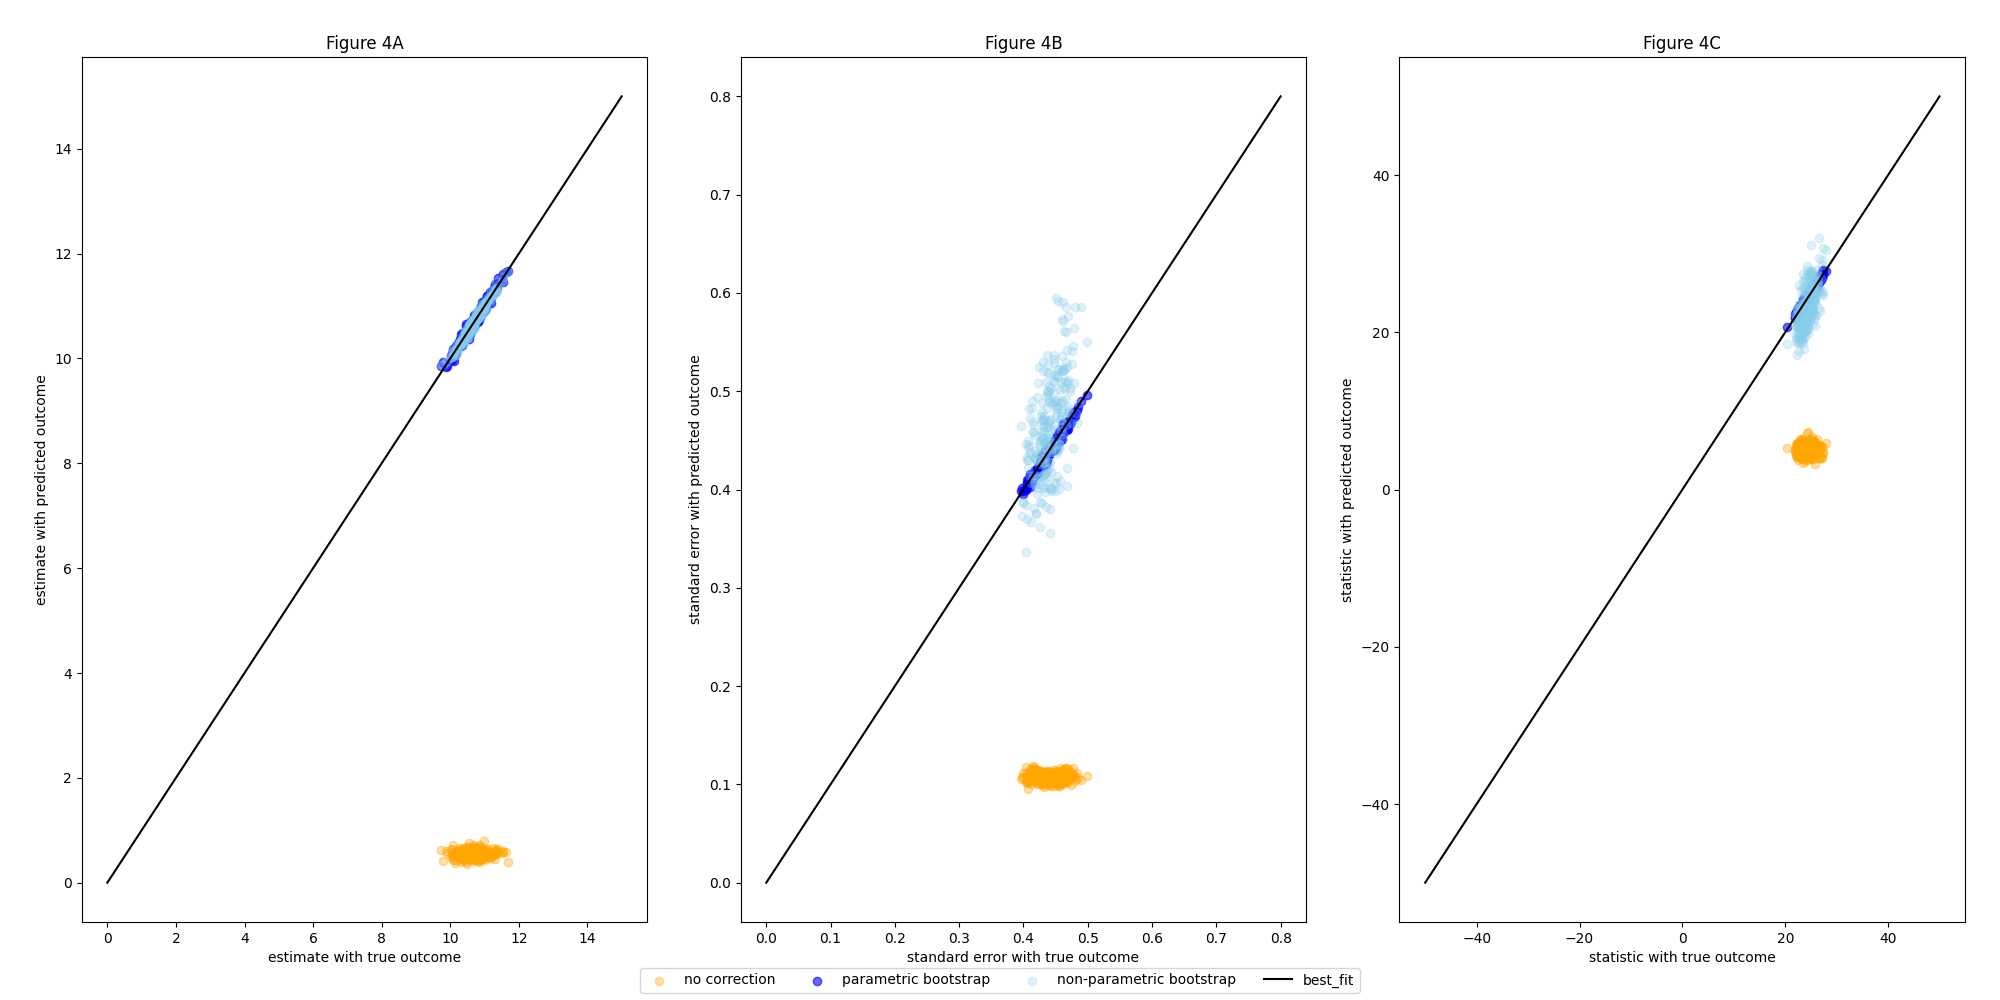
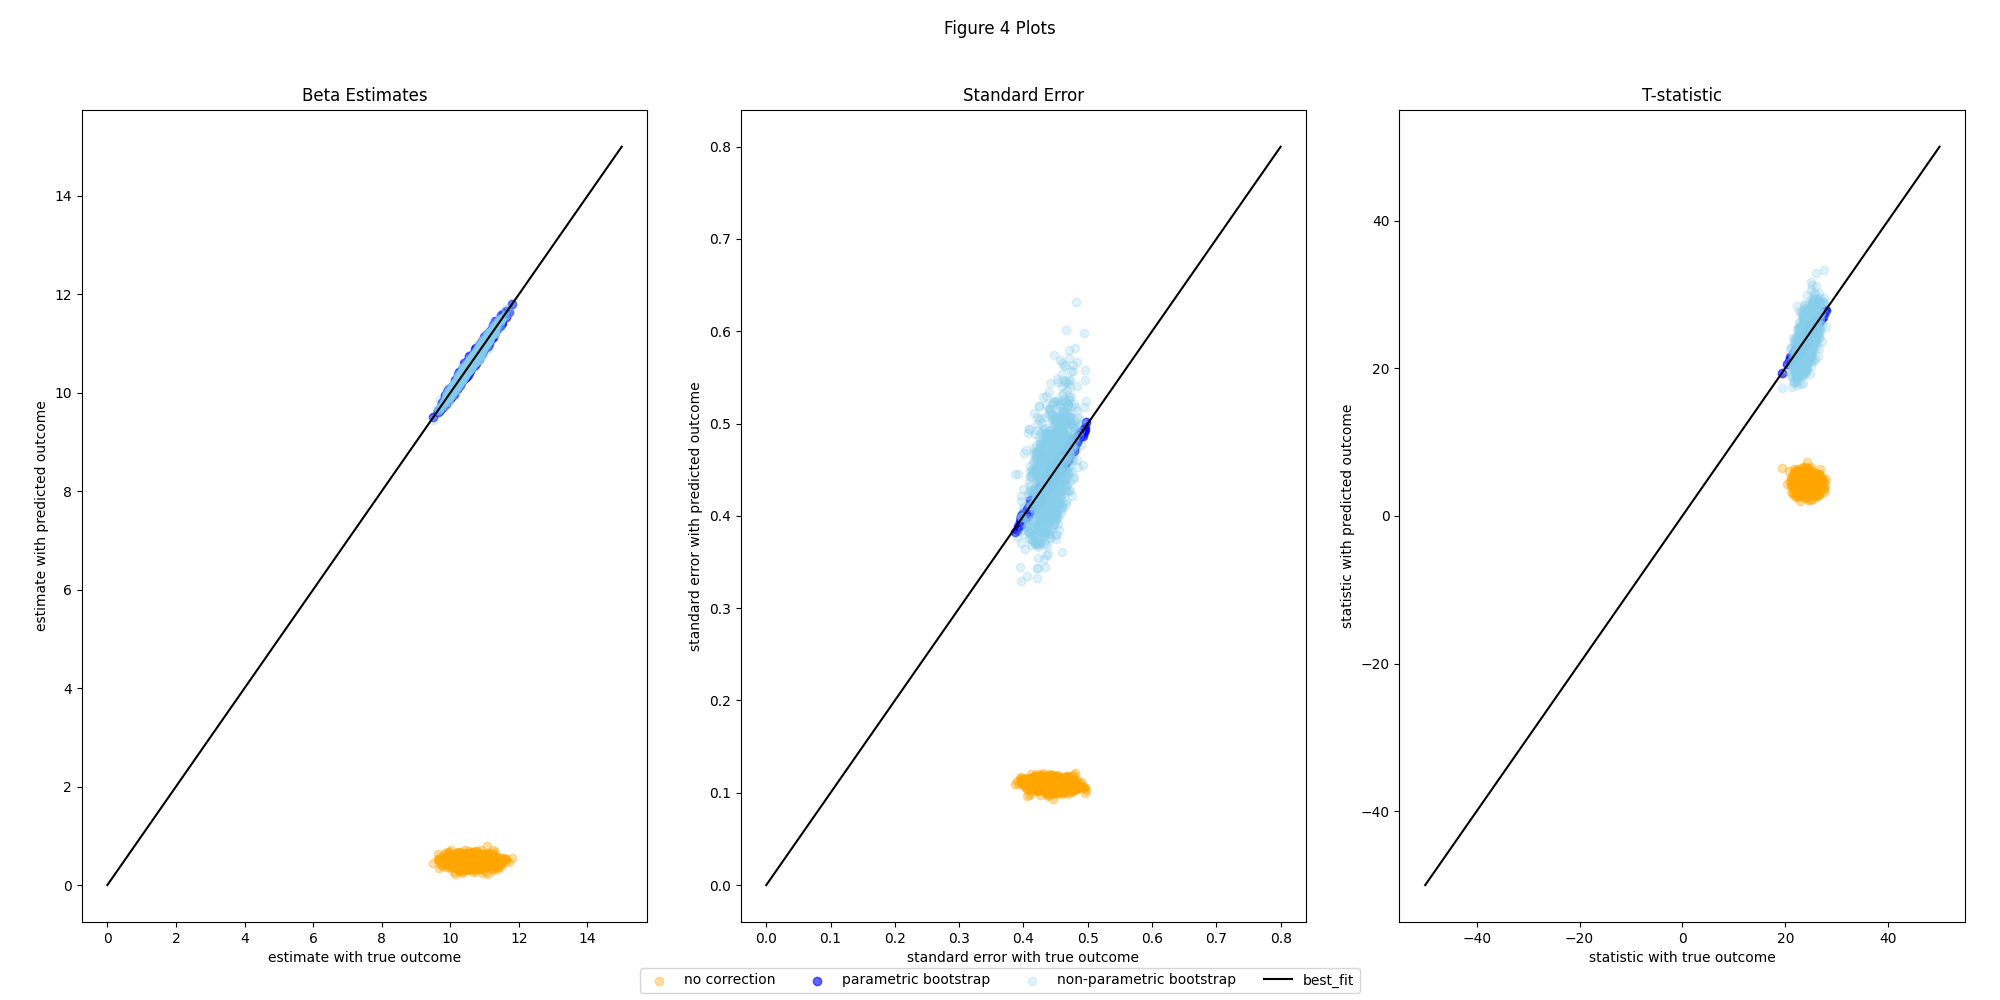
updated postpi graphs

diff --git a/src/postpi.py b/src/postpi.py
@@ -8,6 +8,7 @@ from sklearn.linear_model import LinearRegression
 
 def figure2_plot(qb_rating, y_test, y_pred):
     fig, axes = plt.subplots(1, 2)
+    fig.suptitle("Figure 2 Plots")
     fig.set_size_inches(15, 5)
 
     m, b = np.polyfit(qb_rating, y_test, 1)
@@ -24,15 +25,22 @@ def figure2_plot(qb_rating, y_test, y_pred):
     plt.clf()
 
 
-def figure3_plot(y_pred, y_test):
-    fig, axes = plt.subplots(1, 1)
-    fig.set_size_inches(6, 6)
+def figure3_plot(y_pred, y_pred_baseline, y_test, y_test_baseline):
+    fig, axes = plt.subplots(1, 2)
+    fig.suptitle("Figure 3 Plots")
+    fig.set_size_inches(15, 5)
     
     m, b = np.polyfit(y_test, y_pred, 1)
-    axes.scatter(x=y_test, y=y_pred, c="purple", alpha=0.35)
-    axes.plot(y_test, m*y_test + b, c="red")
-    axes.set(xlabel="y-observed", ylabel="y-predicted")
-    axes.set_title("MLPRegressor")
+    axes[0].scatter(x=y_test, y=y_pred, c="purple", alpha=0.35)
+    axes[0].plot(y_test, m*y_test + b, c="red")
+    axes[0].set(xlabel="y-observed nn", ylabel="nn y-predicted")
+    axes[0].set_title("MLPRegressor")
+
+    m, b = np.polyfit(y_test_baseline, y_pred_baseline, 1)
+    axes[1].scatter(x=y_test_baseline, y=y_pred_baseline, c="purple", alpha=0.35)
+    axes[1].plot(y_test_baseline, m*y_test_baseline + b, c="red")
+    axes[1].set(xlabel="y-observed baseline", ylabel="baseline y-predicted")
+    axes[1].set_title("Linear Regression")
 
     plt.savefig("src/plots/postpi_Fig3.png")
     plt.clf()
@@ -41,27 +49,28 @@ def figure3_plot(y_pred, y_test):
 def figure4_plot(all_true_outcomes, all_true_se, all_true_t_stats, all_nocorrection_estimates, all_parametric_estimates, all_nonparametric_estimates, all_nocorrection_se, all_parametric_se, all_nonparametric_se, all_nocorrection_t_stats, all_parametric_t_stats, all_nonparametric_t_stats):
     fig4, axes4 = plt.subplots(1, 3)
     fig4.tight_layout()
+    fig4.suptitle("Figure 4 Plots")
     fig4.set_size_inches(20,10)
 
     axes4[0].scatter(all_true_outcomes, all_nocorrection_estimates, color='orange', alpha=0.35)
     axes4[0].scatter(all_true_outcomes, all_parametric_estimates, color='blue', alpha=0.6)
     axes4[0].scatter(all_true_outcomes, all_nonparametric_estimates, color='skyblue', alpha=0.25)
     axes4[0].plot([0,15], [0,15], color="black")
-    axes4[0].set_title("Figure 4A")
+    axes4[0].set_title("Beta Estimates")
     axes4[0].set(xlabel="estimate with true outcome", ylabel="estimate with predicted outcome")
 
     axes4[1].scatter(all_true_se, all_nocorrection_se, color='orange', alpha=0.35)
     axes4[1].scatter(all_true_se, all_parametric_se, color='blue', alpha=0.6)
     axes4[1].scatter(all_true_se, all_nonparametric_se, color='skyblue', alpha=0.25)
     axes4[1].plot([0,0.8], [0,0.8], color="black")
-    axes4[1].set_title("Figure 4B")
+    axes4[1].set_title("Standard Error")
     axes4[1].set(xlabel="standard error with true outcome", ylabel="standard error with predicted outcome")
 
     axes4[2].scatter(all_true_t_stats, all_nocorrection_t_stats, color='orange', alpha=0.35)
     axes4[2].scatter(all_true_t_stats, all_parametric_t_stats, color='blue', alpha=0.6)
     axes4[2].scatter(all_true_t_stats, all_nonparametric_t_stats, color='skyblue', alpha=0.25)
     axes4[2].plot([-50,50], [-50,50], color="black")
-    axes4[2].set_title("Figure 4C")
+    axes4[2].set_title("T-statistic")
     axes4[2].set(xlabel="statistic with true outcome", ylabel="statistic with predicted outcome")
 
     fig4.tight_layout(pad=2.5)
@@ -116,24 +125,24 @@ def split_data(X_test, y_test):
     return test, valid
 
 
-def postprediction_inference(X_test, y_test, prediction_model):
+def postprediction_inference(X_test, y_test, prediction_model, y_test_baseline, y_pred_baseline):
     all_true_outcomes, all_true_se, all_true_t_stats = [], [], []
     all_parametric_estimates, all_parametric_se, all_parametric_t_stats = [], [], []
     all_nonparametric_estimates, all_nonparametric_se, all_nonparametric_t_stats = [], [], []
     all_nocorrection_estimates, all_nocorrection_se, all_nocorrection_t_stats = [], [], []
 
-    for i in range(250):
+    for i in range(1000):
         if i%100 == 0:
             print("Working on Iteration: ", i)
 
         test_set, valid_set = split_data(X_test, y_test)
-        y_test_pred = prediction_model.predict(test_set.iloc[:,:-1].values)
+        y_pred_nn = prediction_model.predict(test_set.iloc[:,:-1].values)
 
         if i == 0:
-            figure2_plot(test_set.iloc[:,1], test_set.iloc[:,-1], y_test_pred)
-            figure3_plot(y_test_pred, test_set.iloc[:,-1].values)
+            figure2_plot(test_set.iloc[:,1], test_set.iloc[:,-1], y_pred_nn)
+            figure3_plot(y_pred_nn, y_pred_baseline, test_set.iloc[:,-1].values, y_test_baseline)
 
-        relationship_model = LinearRegression(fit_intercept=False).fit(sm.add_constant(y_test_pred.reshape(-1,1)), test_set.iloc[:,-1].values)
+        relationship_model = LinearRegression(fit_intercept=False).fit(sm.add_constant(y_pred_nn.reshape(-1,1)), test_set.iloc[:,-1].values)
 
         y_valid_pred = prediction_model.predict(valid_set.iloc[:,:-1].values)
         y_valid_corr = relationship_model.predict(sm.add_constant(y_valid_pred.reshape(-1,1)))

diff --git a/run.py b/run.py
@@ -44,21 +44,17 @@ def main(targets):
     train = pd.read_csv("./src/final_data/train.csv")
 
     # Modeling
-    nn = True
-    if nn:
-        X_train, X_test, y_train, y_test, cn = get_data_ready_for_nn(train, test)
-        prediction_mdl = train_nn(X_train, X_test, y_train, y_test, cn)
-    else:
-        prediction_mdl = build_model(train, test)
+    X_train, X_test, y_train, y_test, cn = get_data_ready_for_nn(train, test)
+    prediction_mdl = train_nn(X_train, X_test, y_train, y_test, cn)
 
-    y_pred = prediction_mdl.predict(X_test)
+    y_test_baseline, y_pred_baseline = build_model(train, test)
 
     # superbowl_pred = pd.read_csv("./src/final_data/superbowls.csv").to_numpy()
     # superbowl_pred = prediction_mdl.predict(superbowl_pred)
     # print(superbowl_pred)
 
     # Post-prediction inference
-    postprediction_inference(X_test, y_test, prediction_mdl)
+    postprediction_inference(X_test, y_test, prediction_mdl, y_test_baseline, y_pred_baseline)
 
 
 if __name__ == '__main__':

diff --git a/src/baseline_model.py b/src/baseline_model.py
@@ -98,17 +98,17 @@ def build_model(train, test):
     mod_fit = model.fit()
 
     # calculate residuals and parameters for analysis
-    res = mod_fit.resid
-    print(mod_fit.params)
-    print(mod_fit.summary())
+    # res = mod_fit.resid
+    # print(mod_fit.params)
+    # print(mod_fit.summary())
 
     # calculate MAE of model predictions
-    print("MAE: ", mae(mod_fit.predict(X_test), list(y_test)))
+    # print("MAE: ", mae(mod_fit.predict(X_test), list(y_test)))
 
     # qqplot to analyze if our model as a whole follows linear regression assumptions
-    sm.qqplot(res).set_size_inches(4,4)
-    plt.show()
+    # sm.qqplot(res).set_size_inches(4,4)
+    # plt.show()
     # shows that the model is approximately normal and significant
 
     # return model to allow for predictions
-    return mod_fit
+    return y_test, mod_fit.predict(X_test)
